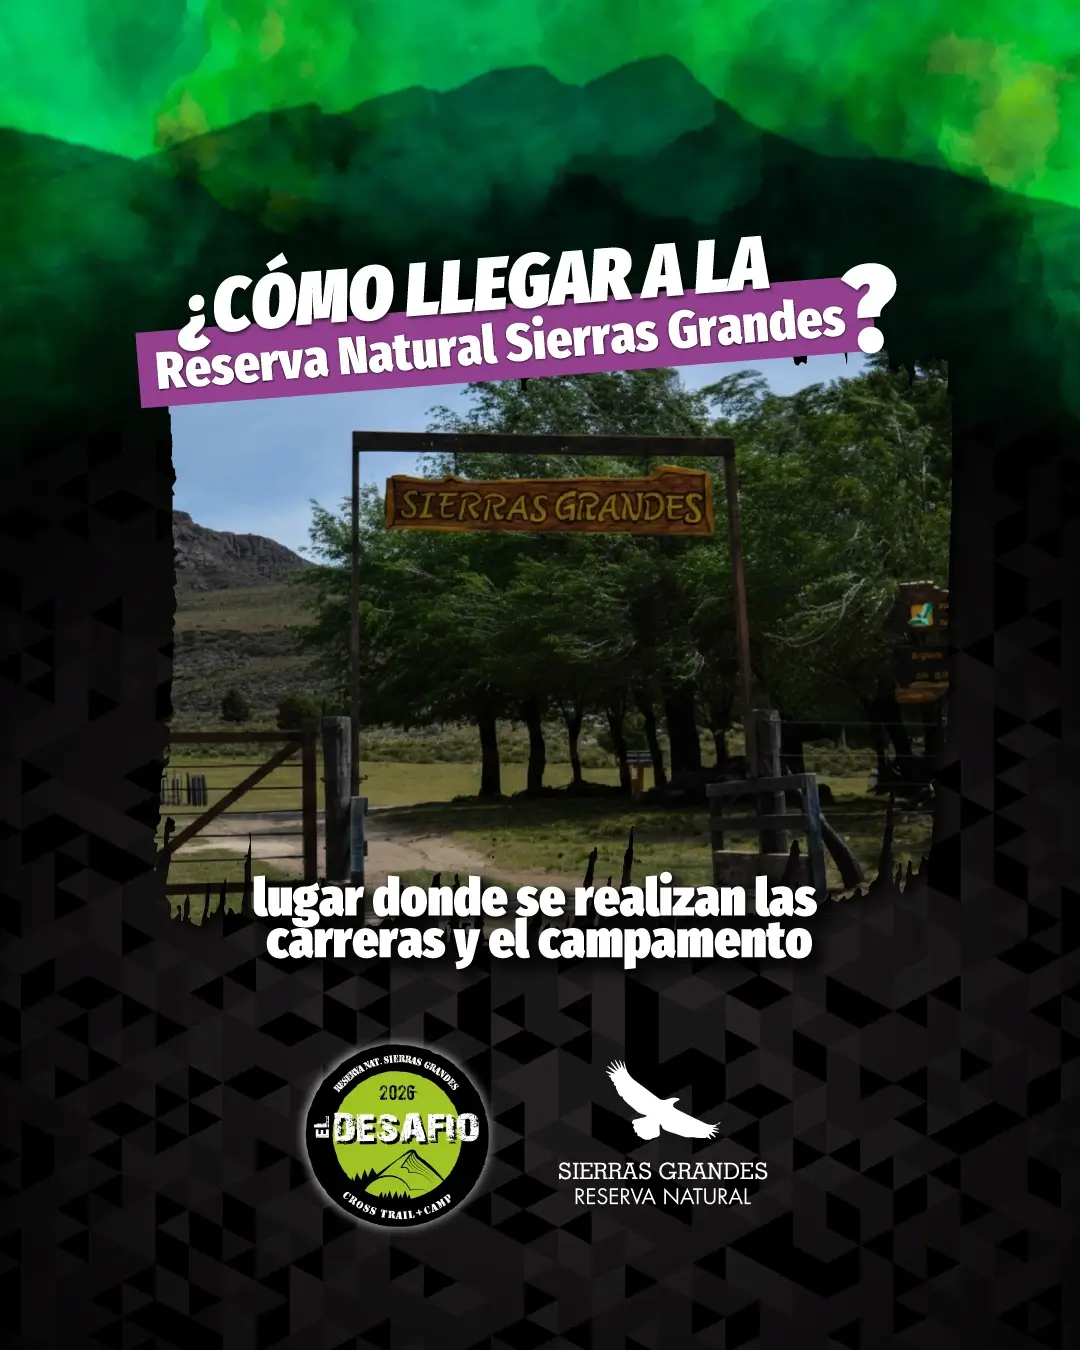
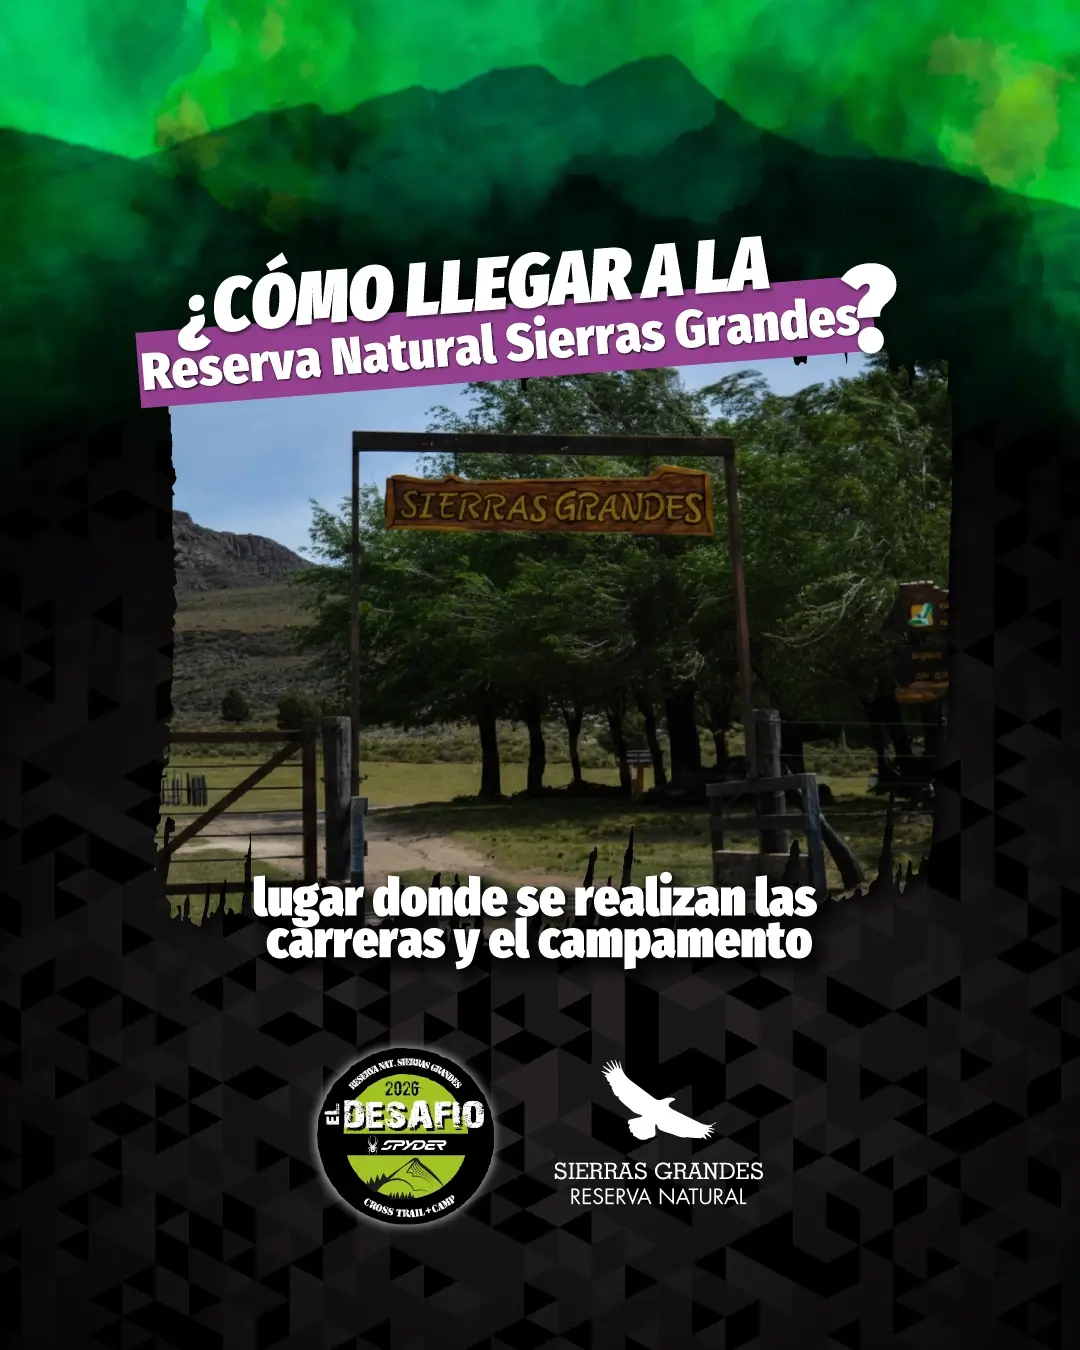
textos desafio

diff --git a/src/Components/Carreras/ElDesafio/Index/ElDesafio.js b/src/Components/Carreras/ElDesafio/Index/ElDesafio.js
@@ -115,9 +115,9 @@ function ElDesafio() {
 
                 <h3 id='cartas'>Cartas</h3>
 
-                <p><strong>La acreditación</strong> se llevará a cabo <strong><u>únicamente</u> los días <u>viernes y sábado en Pie de Piedra, Hotel Boutique, Sierra de la Ventana</u></strong>.</p>
-                <p>Todo lo que respecta a <strong>la carrera</strong>, es decir, la largada, llegada y campamento de la modalidad 2 días y 1 día, se realizará <strong><u>íntegramente</u> en la Reserva Natural Privada Sierras Grandes</strong>, un lugar de ensueño ubicado en Sierra de la Ventana, comarca de Tornquist, Provincia de Buenos Aires.</p>
-                <p>La Reserva se encuentra <strong>a tan solo 9 kilómetros del Hotel Provincial Sierra de la Ventana</strong> (lugar de acreditación ya mencionado). Los que vinieron a correr el año pasado no nos van a dejar mentir: una vez que lleguen se van a enamorar. Y si ya lo conocen, lo mirarán con otros ojos.</p>
+                <p><strong>La acreditación</strong> se llevará a cabo <strong><u>únicamente</u></strong> los días <strong><u>viernes y sábado en Pie de Piedra, Hotel Boutique, Sierra de la Ventana.</u></strong> <mark>EL DOMINGO NO HABRÁ ACREDITACIÓN.</mark></p>
+                <p>Todo lo que respecta a la carrera, es decir, la largada, llegada y campamento de la modalidad 2 días y 1 día, se realizará <u>íntegramente</u> en la Reserva Natural Privada Sierras Grandes, un lugar de ensueño ubicado en Sierra de la Ventana, comarca de Tornquist, Provincia de Buenos Aires.</p>
+                <p><mark><strong>La Reserva se encuentra a 15 kilómetros del Hotel Pie de Piedra (lugar de acreditación ya mencionado)</strong></mark>. Los que vinieron a correr el año pasado no nos van a dejar mentir: una vez que lleguen se van a enamorar. Y si ya lo conocen, lo mirarán con otros ojos.</p>
 
         
 
@@ -261,7 +261,7 @@ function ElDesafio() {
 
 
                 <p>Si tenés tu código de descuento por running team (solicitado previamente), debés ponerlo cuando comenzás la inscripción y se hará el 10% de descuento sobre las cuotas.</p>
-                <p><u>Cuando se agoten los cupos, se actualizarán los costos para la ETAPA 2.</u>.</p>
+                <p><u>Cuando se agoten los cupos, se actualizarán los costos para la ETAPA 2.</u></p>
 
 
                 <h3>POLÍTICA DE PAGO DE CUOTAS</h3>
@@ -284,18 +284,19 @@ function ElDesafio() {
 
                 
                 <h3>ACREDITACIÓN Y ENTREGA DE KITS</h3>
-                <p><strong>La acreditación se realizará únicamente los días viernes y sábado en Pie de Piedra, Hotel Boutique, Sierra de la Ventana. La Reserva Sierras Grandes, lugar donde se realiza la carrera, se encuentra a 12 kilómetros de Pie de Piedra.</strong></p> 
+                <p><strong>La acreditación se realizará únicamente los días viernes y sábado en Pie de Piedra, Hotel Boutique, Sierra de la Ventana.</strong></p>
+                <p><strong>La Reserva Sierras Grandes, lugar donde se realiza la carrera, se encuentra a 15 kilómetros de Pie de Piedra.</strong></p>
 
                 <h4><mark className='mark'>- VIERNES 02/10</mark></h4>
                 <p>16 a 19hs: Acreditación a todas las distancias.</p>
 
                 <h4><mark className='mark'>- SÁBADO 03/10</mark></h4>
                 <p>9 a 13hs: Prioridad acreditación para modalidad 2 días.</p>
-                <p>9 a 17hs: Acreditación modalidad 1 día: 21K, 10K y Kids.</p>
+                <p>9 a 18hs: Acreditación modalidad 1 día: 21K, 10K y Kids.</p>
 
-                <p><strong><u>ATENCIÓN:</u> El día domingo 4/10 NO HABRÁ ACREDITACIÓN. Se retira el kit únicamente el viernes o sábado, con la posibilidad de que lo haga un tercero con tu fotocopia de dni siempre y cuando esté el deslinde firmado y el apto médico subido.</strong></p>
+                <p><strong><mark><u>ATENCIÓN:</u> El día domingo 4/10 NO HABRÁ ACREDITACIÓN. Se retira el kit únicamente el viernes o sábado, con la posibilidad de que lo haga un tercero con tu fotocopia de dni siempre y cuando esté el deslinde firmado y el apto médico subido.</mark></strong></p>
     
-                <h5>CÓMO LLEGAR A PIE DE PADRE, HOTEL BOUTIQUE?</h5>
+                <h5>CÓMO LLEGAR A PIE DE PIEDRA, HOTEL BOUTIQUE?</h5>
                 <iframe src="https://www.google.com/maps/embed?pb=!1m18!1m12!1m3!1d2639.463083281655!2d-61.79391376885545!3d-38.119998749208506!2m3!1f0!2f0!3f0!3m2!1i1024!2i768!4f13.1!3m3!1m2!1s0x95ece9368a48003b%3A0x53c10bbfa65126c6!2sPie%20de%20piedra%20-%20Hotel%20boutique.%20%2B18!5e0!3m2!1ses!2sar!4v1780945671509!5m2!1ses!2sar" width="600" height="450" loading="lazy" className='mapas' title='Mapa Hotel Pie de Piedra'></iframe>
                 {/* <p><b>IMPORTANTE: EN LA RESERVA NATURAL PRIVADA SIERRAS GRANDES NO SE PODRÁ RETIRAR KIT NI TAMPOCO INSCRIBIRSE AL EVENTO, NINGÚN DÍA.</b></p> */}
                
@@ -376,24 +377,26 @@ function ElDesafio() {
                 
                 <h3>CAMPAMENTO OPCIONAL</h3>
                 <ul>
-                    <li>El campamento será opcional tanto para la modalidad de dos días como para la de un día de carrera. LA CARPA Y TODOS LOS ELEMENTOS DE CAMPAMENTO CORREN POR CUENTA DEL CORREDOR.</li>
+                    <li>El campamento será opcional tanto para la modalidad de dos días como para la de un día de carrera. <strong>LA CARPA Y TODOS LOS ELEMENTOS DE CAMPAMENTO CORREN POR CUENTA DEL CORREDOR</strong>.</li>
                     <li>Los corredores que contratan campamento, deberán primero acreditarse para luego poder acceder al mismo. Cada corredor contará con una pulsera para ingresar al predio, otorgada en la acreditación.</li>
                     <li>El campamento (que será dentro de la Reserva Natural Sierras Grandes, donde salen y llegan todas las distancias) abrirá sus puertas a partir del sábado 3 de octubre desde las 10 am para que cada corredor pueda armar su propia carpa antes de correr.</li>
                     <li>Los autos quedarán dentro del campamento, contamos con un estacionamiento sin cargo para quienes contratan el servicio.</li>
                     <li>El servicio de campamento incluye también: estadía en el campo, cena del sábado y desayuno del domingo.</li>
-                    <li>Los corredores de dos días que quieran acceder al campamento lo seleccionan al momento de inscribirse. Los de 1 día y/o acompañantes, solicitan la estadía con un costo adicional por mail [email redacted].</li>
+                    <li>Los corredores de dos días que quieran acceder al campamento lo seleccionan en la modalidad al momento de inscribirse.</li>
+                    <li>Los de 1 día y/o acompañantes, solicitan la estadía con un costo adicional por mail [email redacted].</li>
                     <li>Avisar con anticipación al mail en caso de ser celíacos, vegetarianos o veganos para poder ofrecerles la comida adecuada en el campamento.</li>
                     <li>HORARIO DE CENA SÁBADO 3/10: 20 a 21:30 horas.</li>
                     <li>HORARIO DE DESAYUNO 4/10: 7 a 8:30 horas.</li>
-                    <li>El campamento para los corredores y la Reserva en general no cuenta con una proveeduría. Se les proporcionará la cena y el desayuno correspondientes a quienes contraten campamento. Para los corredores de ambas modalidades habrá posibilidad de comprar únicamente bebidas sin alcohol, sandwiches y agua caliente. Al no haber señal en la zona, y solamente antena de internet, se recomienda llevar efectivo, sin excepción. Recomendamos proveerse de todo lo que consuman fuera de todo lo mencionado ya que la reserva se encuentra en una zona alejada a la ciudad. No olvidemos que el objetivo es disfrutar de dos días de correr y vincularse con la naturaleza. Contamos con 12 Baños químicos y dos duchas con agua caliente de hombres) y dos de mujeres (este último es exclusivo para el campamento).</li>
+                    <li>El campamento para los corredores y la Reserva en general no cuenta con una proveeduría. Se les proporcionará la cena y el desayuno correspondientes a quienes contraten campamento. Para los corredores de ambas modalidades habrá posibilidad de comprar únicamente bebidas sin alcohol, sandwiches y agua caliente. Al no haber señal en la zona, y solamente antena de internet, se recomienda llevar efectivo, sin excepción. Recomendamos proveerse de todo lo que consuman fuera de todo lo mencionado ya que la reserva se encuentra en una zona alejada a la ciudad. No olvidemos que el objetivo es disfrutar de dos días de correr y vincularse con la naturaleza.</li>
+                    <li>Contamos con 12 Baños químicos y dos duchas con agua caliente de hombres y dos de mujeres (este último es exclusivo para el campamento).</li>
                 </ul>
                
 
 
              <h3>RECORRIDOS</h3>
-              <p style={{textAlign: "center"}} ><strong>PRÓXIMAMENTE</strong></p> 
+             {/*  <p style={{textAlign: "center"}} ><strong>PRÓXIMAMENTE</strong></p>  */}
 
-{/* 
+ 
              <iframe
                     src="https://www.google.com/maps/d/embed?mid=1CoGqmWVPuxzKioYecP1hZj3ZRE5KkXs&ehbc=2E312F"
                     width="400"
@@ -406,7 +409,7 @@ function ElDesafio() {
                     title='Mapa interactivo recorridos El Desafio'
                 ></iframe>
 
-
+{/*
                 <h3>RECORRIDO 25K</h3>
 
                  <img src={Imagen25KM} alt='Recorrido 25KM' className='recorridos' /> 
@@ -447,7 +450,7 @@ function ElDesafio() {
                 <h3>RECORRIDO KIDS</h3>
 
                 <img src={ImagenKids} alt='Recorrido Kids Desafío Sierras' className='recorridos' /> 
- */}
+ 
 
                 
                 <div style={{display:'flex', flexDirection:'column', margin:'auto', textAlign:'center'}}>
@@ -551,19 +554,19 @@ function ElDesafio() {
 
                <h4><strong><mark className='mark'>SÁBADO 03/10</mark></strong></h4>
                <ul>
-                <li><strong>9 a 13 hs:</strong> Acreditación y entrega de kits con prioridad para la modalidad 2 días: Pie de Piedra, Hotel Boutique, Sierra de la Ventana</li>
-                <li><strong>9 a 17 hs:</strong> Acreditación y entrega de kits modalidad 1 día: 21K, 10K y Kids. Pie de Piedra, Hotel Boutique, Sierra de la Ventana.</li>
+                <li><strong>9 a 13 hs:</strong> Acreditación y entrega de kits con prioridad para la modalidad 2 días: Pie de Piedra, Hotel Boutique, Sierra de la Ventana.</li>
+                <li><strong>9 a 18 hs:</strong> Acreditación y entrega de kits modalidad 1 día: 21K, 10K y Kids. Pie de Piedra, Hotel Boutique, Sierra de la Ventana.</li>
                 <li><strong>13:45 hs:</strong> Charla técnica modalidad 2 días en el arco de largada. Reserva Natural Sierras Grandes, Sierra de la Ventana, Tornquist.</li>
                 <li><strong>14 hs:</strong> Largada de la modalidad de 2 días: 25K. Reserva Natural Sierras Grandes.</li>
                 <li><strong>20 a 21:30 hs:</strong> Cena en el campamento de la Reserva Natural Sierras Grandes.</li>
                </ul>
 
-               <h4><strong><mark className='mark'>DOMINGO 04/10</mark></strong></h4>
+               <h4><strong><mark className='mark'>DOMINGO 04/10:</mark><mark>(NO HAY ACREDITACIÓN EL DOMINGO)</mark></strong></h4>
                <ul>
                 <li><strong>7 a 8:30 hs:</strong> Desayuno en el campamento de Reserva Natural Sierras Grandes.</li>
                 <li><strong>9:45 hs:</strong> Charla técnica en el arco de largada. Reserva Natural Sierras Grandes.</li>
                 <li><strong>10 hs:</strong> Largada 2 días + 1 día: 21K y 10K. Reserva Natural Sierras Grandes.</li>
-                <li><strong>13:30  hs:</strong> Largada Kids (horario aproximado). Reserva Natural Sierras Grandes.
+                <li><strong>13:30 hs:</strong> Largada Kids (horario aproximado). Reserva Natural Sierras Grandes.
                 </li>
                 <li><strong>14 / 14:30 hs:</strong> Premiación (horario aproximado). Reserva Natural Sierras Grandes.</li>
                </ul>